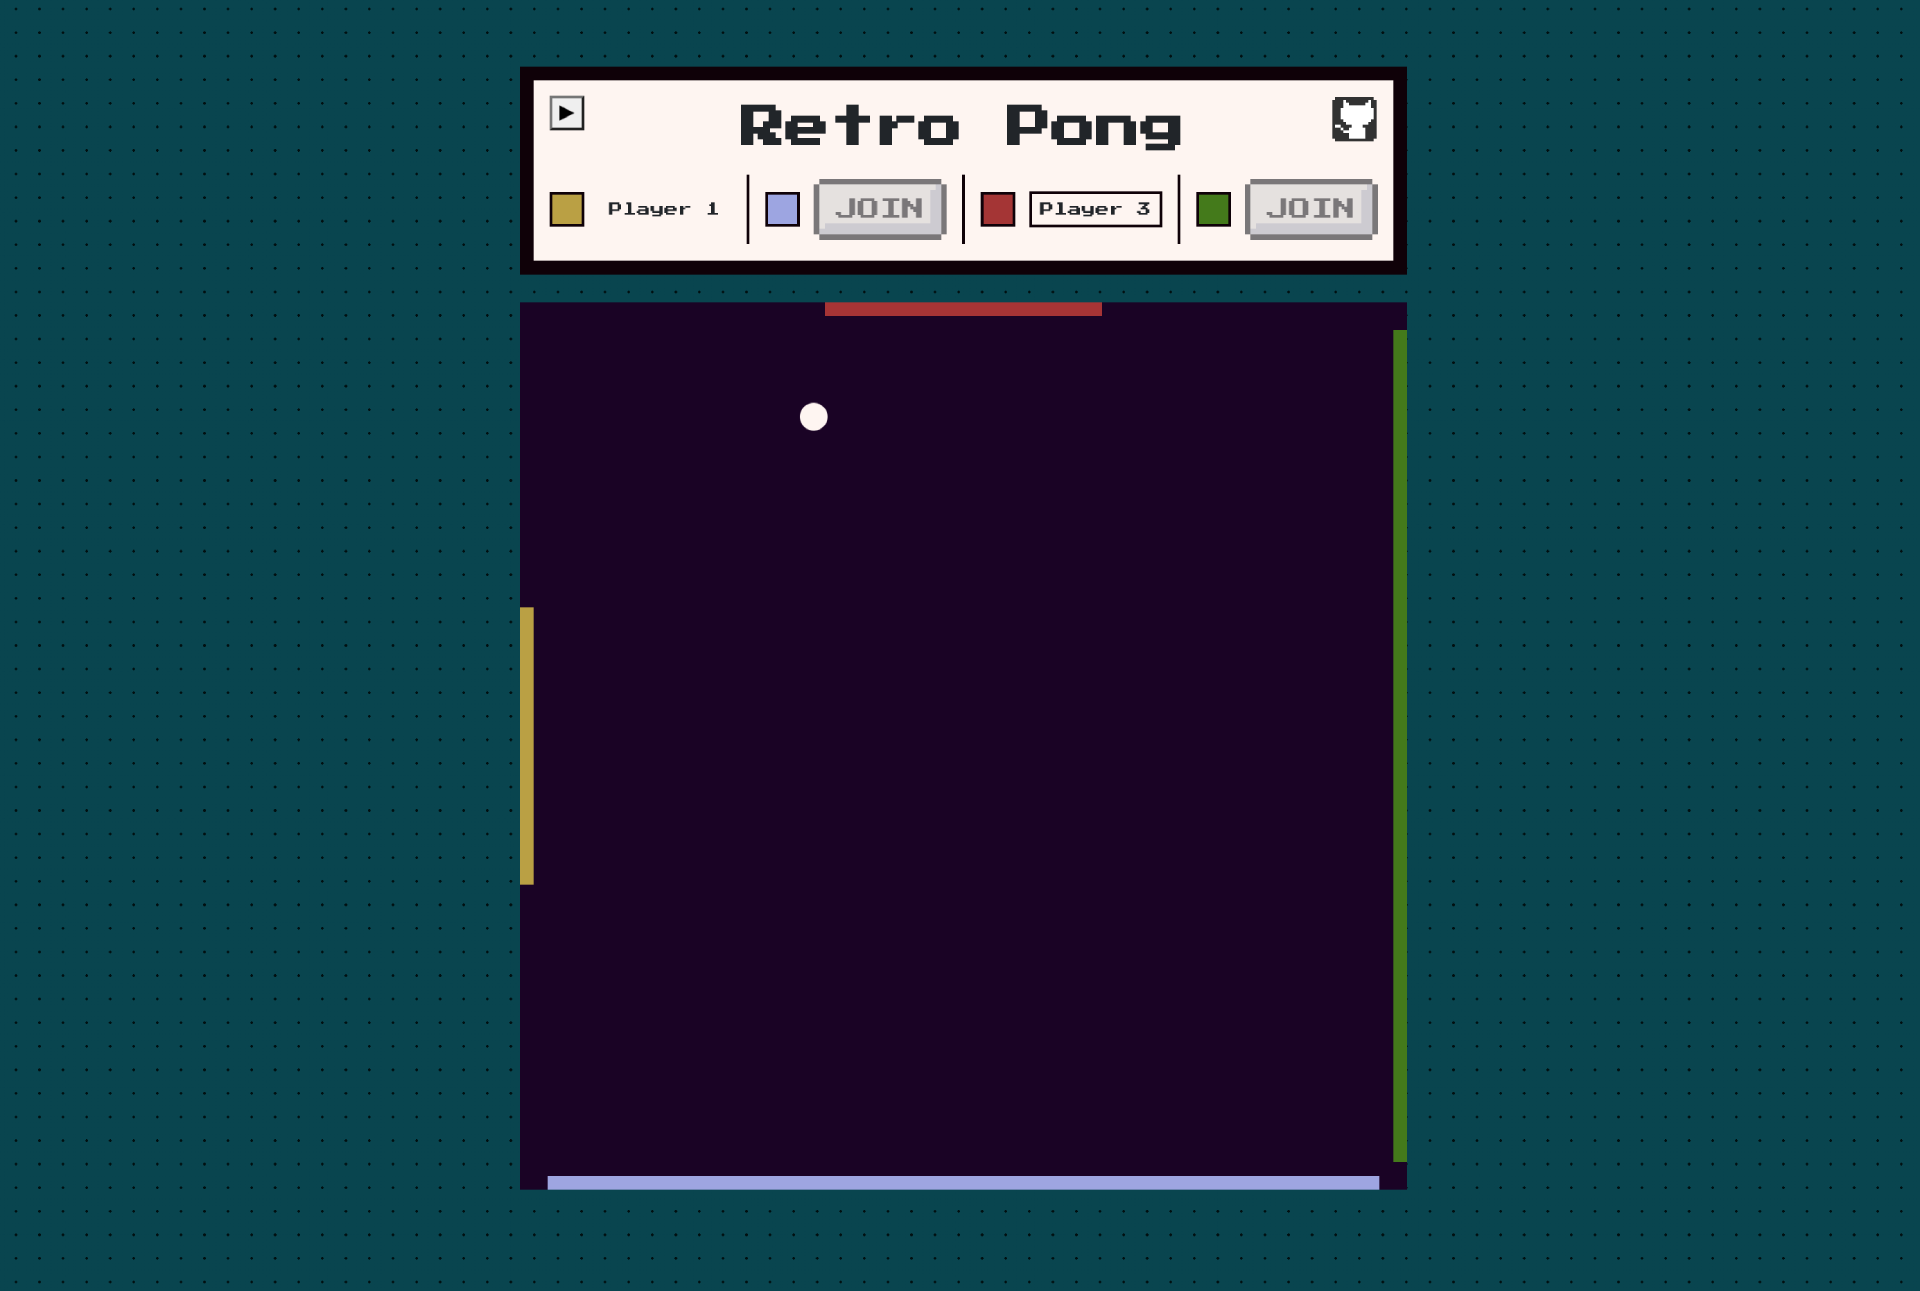
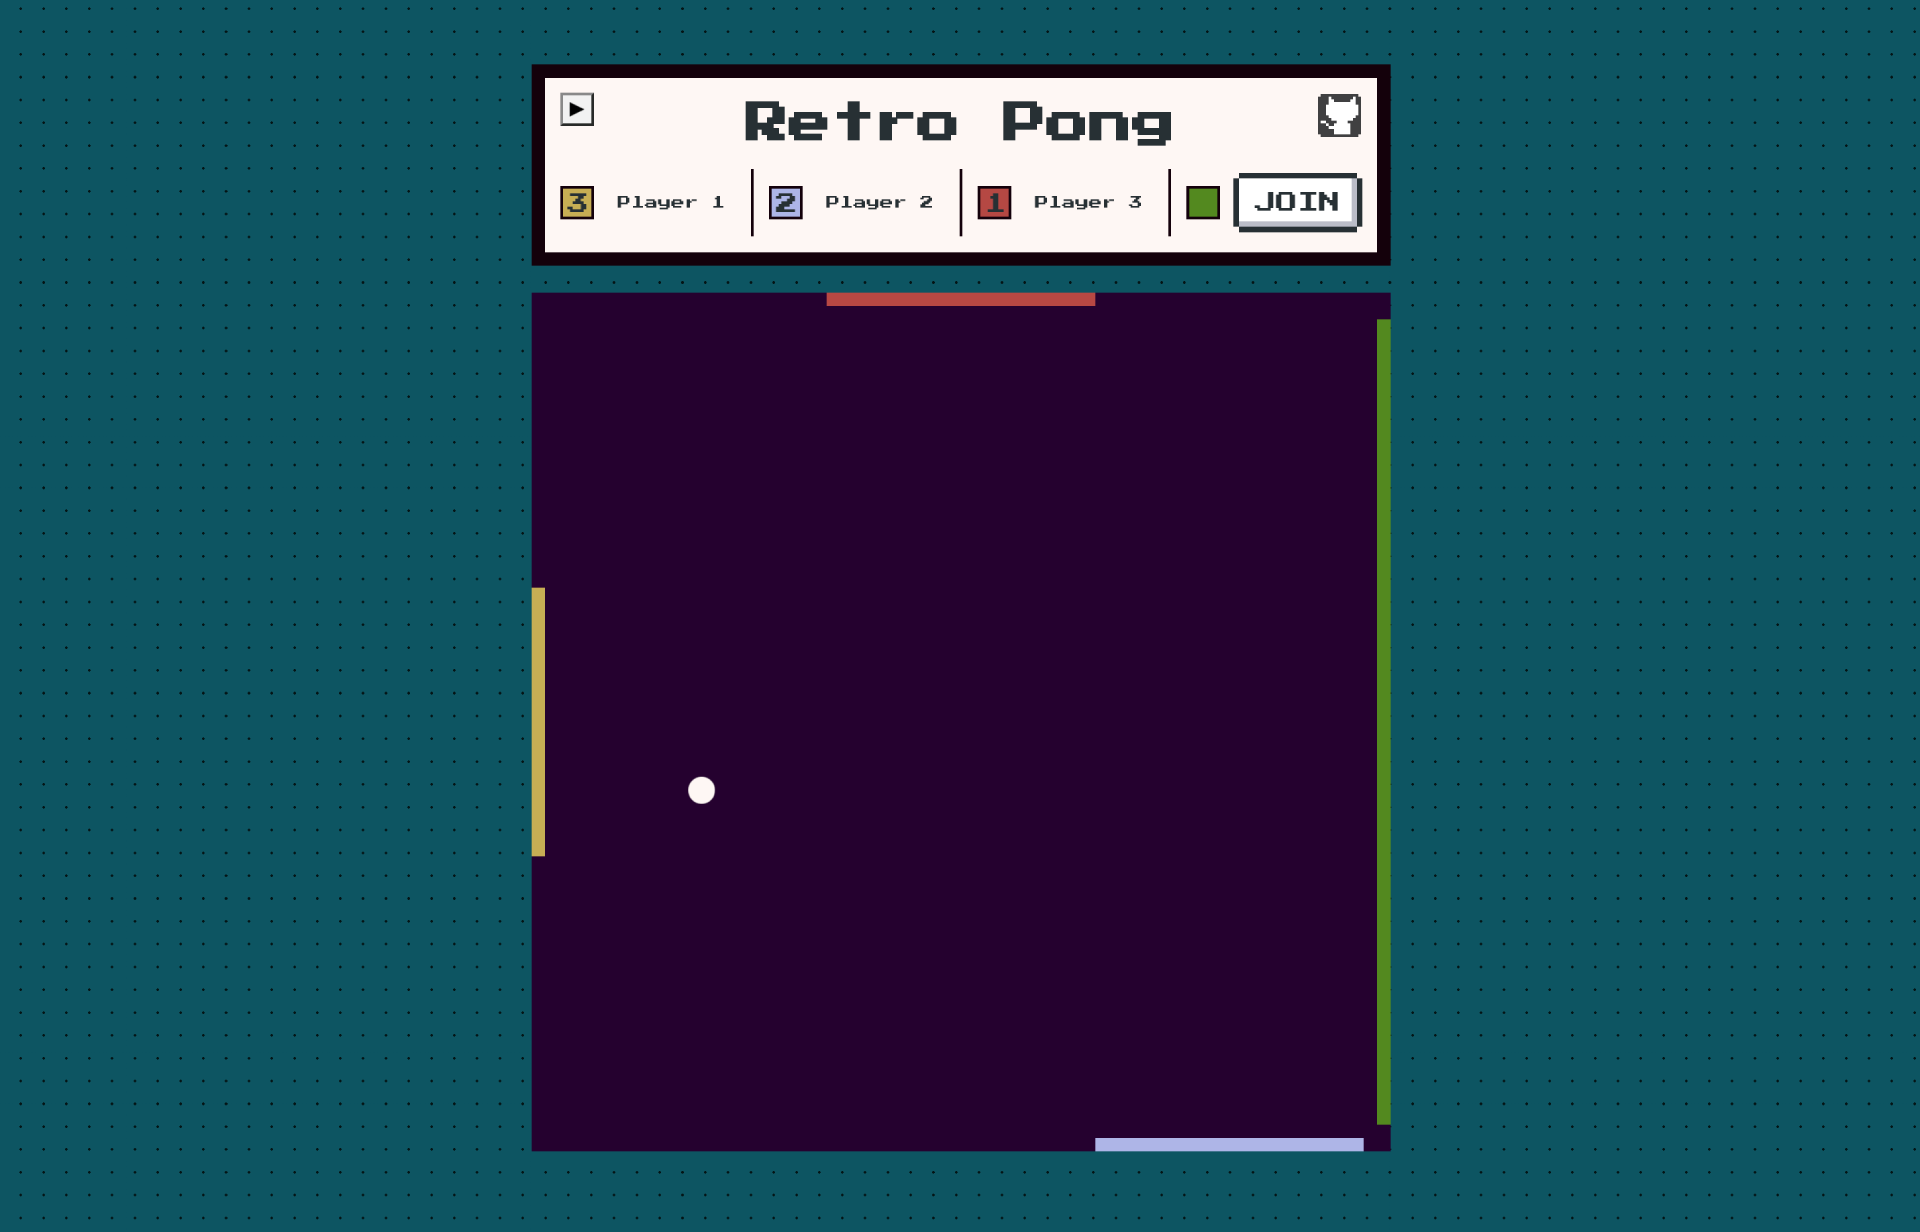
add players lives to gameplay

Changed region(s): [[0.25, 0.0308, 0.75, 0.9562], [0.4062, 0.3084, 0.4375, 0.3393], [0.3438, 0.6169, 0.375, 0.6477]]

diff --git a/apps/api/src/app/game/shared/models/player.model.ts b/apps/api/src/app/game/shared/models/player.model.ts
@@ -2,6 +2,8 @@ import { ArrowDirectionEnum, PlayerInterface, SideEnum } from '@retro-pong/api-i
 import { Geometry } from '../../geometry';
 
 export class PlayerModel implements PlayerInterface {
+  private static defaultLivesCount = 3;
+
   private static readonly paddleShiftMapper = {
     [ArrowDirectionEnum.LEFT]: -Geometry.paddleShift,
     [ArrowDirectionEnum.RIGHT]: Geometry.paddleShift,
@@ -15,6 +17,7 @@ export class PlayerModel implements PlayerInterface {
   position = Geometry.fieldSize / 2;
   side: SideEnum;
   width = Geometry.fieldSize;
+  lives = 0;
 
   constructor(name: string, axis: 'x' | 'y', side: SideEnum) {
     this.name = name;
@@ -23,13 +26,17 @@ export class PlayerModel implements PlayerInterface {
   }
 
   reset(): void {
-    this.active = false;
-    this.width = Geometry.fieldSize;
-    this.position = Geometry.fieldSize / 2;
+    this.lives = Math.max(this.lives - 1, 0);
+    if (this.lives <= 0) {
+      this.active = false;
+      this.width = Geometry.fieldSize;
+      this.position = Geometry.fieldSize / 2;
+    }
   }
 
   activate(): void {
     this.active = true;
+    this.lives = PlayerModel.defaultLivesCount;
     this.width = Geometry.activePaddleWidth;
   }
 

diff --git a/apps/retro-pong/src/app/modules/status-bar/player-bar/player-bar.component.html b/apps/retro-pong/src/app/modules/status-bar/player-bar/player-bar.component.html
@@ -1,4 +1,6 @@
-<div class="player-color bottom"></div>
+<div class="player-color bottom">
+  <p *ngIf="player.lives" class="player-lives">{{player.lives}}</p>
+</div>
 <button [disabled]="disabled" type="button" class="nes-btn" (click)="startGame.emit(player.side)"
         [class.is-disabled]="disabled" *ngIf="!player.active; else playerName">JOIN</button>
 <ng-template #playerName>

diff --git a/apps/retro-pong/src/app/modules/status-bar/player-bar/player-bar.component.scss b/apps/retro-pong/src/app/modules/status-bar/player-bar/player-bar.component.scss
@@ -33,6 +33,14 @@
     background-color: $player-color-4;
   }
 
+  .player-lives {
+    font-size: 16px;
+    line-height: 23px;
+    padding: 0 0 0 2px;
+    margin: 0;
+    text-align: center;
+  }
+
   .player-name {
     font-size: 10px;
     margin: 0;

diff --git a/libs/api-interfaces/src/lib/api-interfaces.ts b/libs/api-interfaces/src/lib/api-interfaces.ts
@@ -12,6 +12,7 @@ export interface PlayerInterface {
   name: string;
   axis: 'x' | 'y';
   active: boolean;
+  lives: number;
 }
 
 export interface PlayerPayloadInterface {
